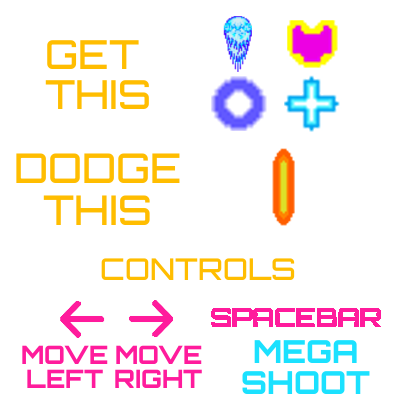
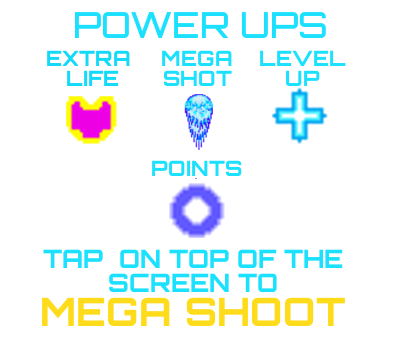
cambiando menus

diff --git a/js/game.js b/js/game.js
@@ -73,6 +73,11 @@ function Game(canvas) {
   this.ctx.fillStyle = grd;
   this.ctx.fillRect(0, 0, this.canvas.width, this.canvas.height);
 
+  this.img = new Image()
+  this.img.src = "images/instructions.png";
+  debugger
+  this.ctx.drawImage(this.img, 0, 0);
+  debugger
 }
 
 // Empezar el juego
